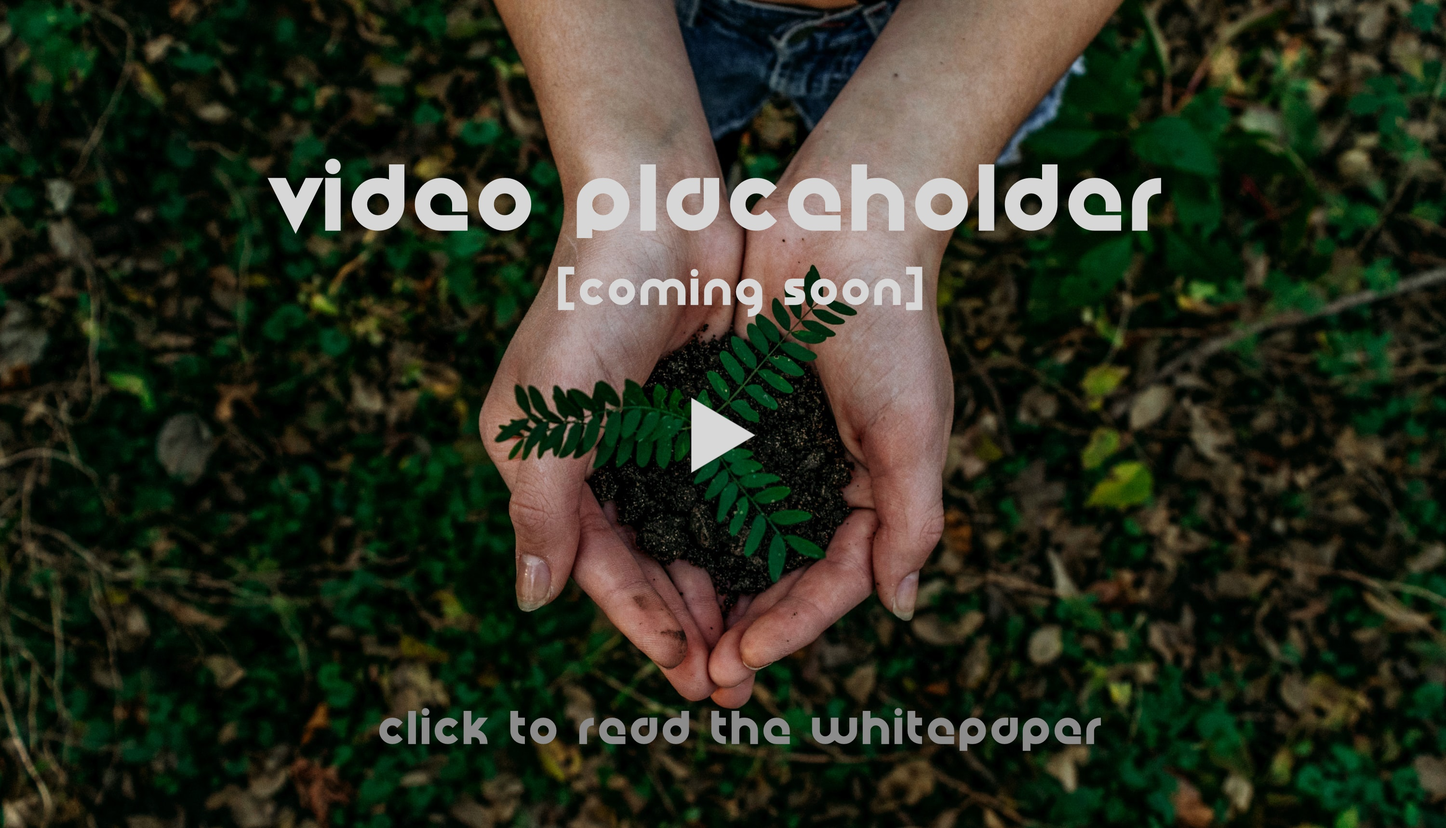
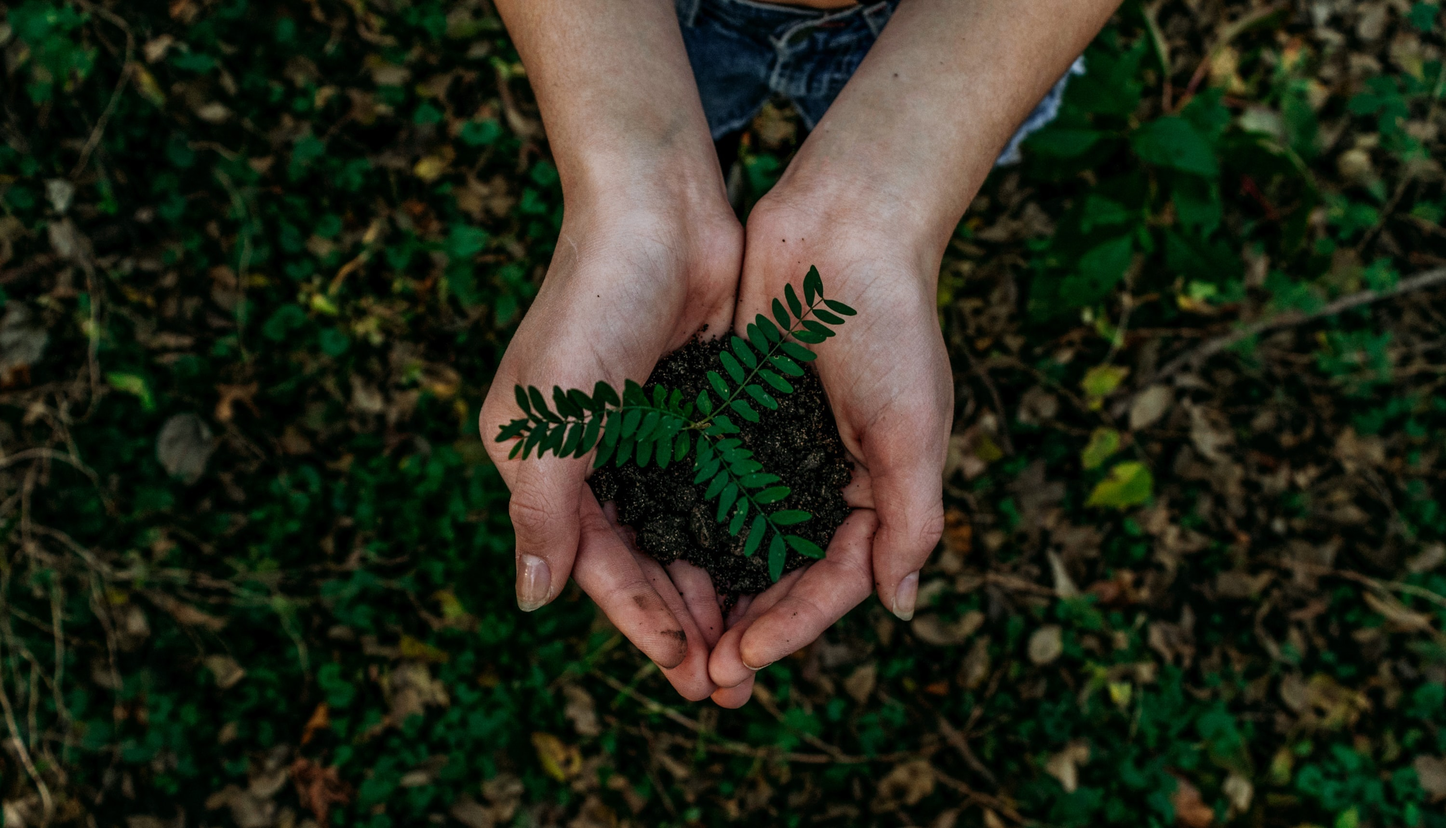
Updated Video placeholder

diff --git a/src/App.svelte b/src/App.svelte
@@ -1,7 +1,6 @@
 <script lang="ts">
   import ProcessNav from "./libs/o-views/molecules/ProcessNav.svelte";
   import Compose from "./libs/o-views/atoms/Compose.svelte";
-  import Mobile from "./libs/o-views/templates/Mobile.svelte";
 
   import ComposeApp from "./libs/o-views/atoms/ComposeApp.svelte";
   import Router, { pop, location, push } from "svelte-spa-router";
@@ -16,40 +15,19 @@
   import Modal from "./libs/o-views/molecules/Modal.svelte";
   import type { OmoEvent } from "./libs/o-events/omoEvent";
   import { RunProcess } from "./libs/o-events/runProcess";
-  import Announcement from "./libs/o-views/molecules/Announcement.svelte";
   import ProcessContainer from "./libs/o-views/molecules/ProcessContainer.svelte";
   import { Cancel } from "./libs/o-processes/events/cancel";
   import { Process } from "./libs/o-processes/interfaces/process";
-  import { ShowNotification } from "./libs/o-events/showNotification";
   import { getEnvironment } from "./libs/o-os/o";
   import { BN } from "ethereumjs-util";
-  import {
-    initializeApp,
-    InitializeAppContext,
-  } from "./dapps/safe/processes/initializeApp/initializeApp";
+  import { initializeApp } from "./dapps/safe/processes/initializeApp/initializeApp";
   import { GotProfile } from "./dapps/omosapien/events/gotProfile";
   import { createOmoSapien } from "./dapps/omosapien/processes/createOmoSapien/createOmoSapien";
-  import { ProcessArtifact } from "./libs/o-processes/interfaces/processArtifact";
 
   let actions = [];
 
-  let notifications = [
-    {
-      data: {
-        type: "Attention!",
-        text:
-          "Early alpha testing, data losses can occur, use at own risk! For feedback join our",
-        button: "Chat",
-      },
-      action: {
-        link: "https://discord.gg/Rbhy4j9",
-      },
-    },
-  ];
-
   let isOpen = false;
   let showActionBar = false;
-  let askForCancel = false;
 
   let runningProcess: Process = window.o.stateMachines.current();
 
@@ -70,10 +48,6 @@
         (<RunProcess>event).contextModifier
       );
       isOpen = true;
-    }
-    if (event.type == "shell.showNotification") {
-      //notifications.push((<ShowNotification>event).mapping);
-      //notifications = notifications;
     }
   });
 
@@ -183,13 +157,6 @@
 <ComposeApp tw="font-primary bg-light-100">
   <Compose tw="mx-auto bg-light-100 w-full">
     <Compose columns="1fr" rows="1fr auto" tw="w-full">
-      <!-- <Compose tw="md:my-1">
-        <Mobile>
-          {#each notifications as notification}
-            <Announcement mapping={notification} />
-          {/each}
-        </Mobile>
-      </Compose> -->
       <Compose rows="1fr" columns="1fr">
         <Router
           {routes}

diff --git a/src/dapps/website/views/molecules/Hero.svelte b/src/dapps/website/views/molecules/Hero.svelte
@@ -4,19 +4,23 @@
 </script>
 
 <div
-  class="items-center justify-center w-full py-20 overflow-x-hidden lg:py-40 xl:pt-40 xl:pb-64">
+  class="items-center justify-center w-full py-20 overflow-x-hidden bg-white lg:py-40 xl:pt-40 xl:pb-64">
   <div
     class="container flex flex-col items-center justify-between h-full max-w-6xl px-8 mx-auto -mt-32 lg:flex-row lg:px-0">
     <div
       class="z-30 flex flex-col items-center w-full max-w-xl pt-40 text-center lg:items-start lg:w-1/2 lg:pt-16 xl:pt-24 lg:text-left">
       <h1
-        class="relative text-4xl font-black tracking-wide uppercase font-title text-secondary sm:text-5xl lg:text-6xl xl:mb-4">
-        Own your money own your life!
+        class="relative text-2xl font-black tracking-wide uppercase font-title text-secondary sm:text-3xl lg:text-4xl xl:mb-4">
+        <span class="text-4xl sm:text-5xl lg:text-6xl">Own your money</span>
+        <br />
+        <span class="text-3xl sm:text-4xl lg:text-5xl">grow your passion</span><br />
+        <span class="text-3xl sm:text-4xl lg:text-5xl">Sustain your earth!</span>
       </h1>
       <p
         class="pr-0 mb-20 text-base text-light-500 sm:text-lg xl:text-xl lg:pr-20 ">
         Grow now your own personal money tightly interconnected to your time
-        alive.
+        alive and sustain your planet with a passionate economy and a fair money
+        design.
       </p>
       <!-- <div
         on:click={() => push('#/omoli/dapps')}

diff --git a/src/dapps/website/views/molecules/Video.svelte b/src/dapps/website/views/molecules/Video.svelte
@@ -1,5 +1,28 @@
-<div class="flex items-center justify-center w-full">
-  <a href="#/visionpaper" class="w-full">
-    <img src="./images/video.jpg" class="w-full" alt="video placeholder" />
-  </a>
-</div>
+<script lang="ts">
+  import Icon from "fa-svelte";
+  import { faPlay } from "@fortawesome/free-solid-svg-icons";
+</script>
+
+<section
+  class="flex flex-col items-center justify-center w-full h-full font-sans text-center bg-cover"
+  style="background:url(./images/video.jpg) no-repeat
+  center;">
+  <div
+    class="flex flex-col items-center justify-center w-full h-full text-center bg-blue-900 bg-cover opacity-50">
+    <div
+      class="flex items-center justify-center w-24 h-24 mb-8 bg-white rounded-full text-primary hover:bg-gray-200">
+      <Icon icon={faPlay} class="text-xl" />
+    </div>
+    <label
+      for=""
+      class="text-xs font-hairline text-white uppercase tracking-extrawide">
+      Watch Video
+    </label>
+    <h3
+      class="m-4 mx-auto text-4xl font-black leading-normal text-white uppercase md:m8 md:text-6xl font-title">
+      Ready to lead humanity
+      <br />into a new age of abundance?<br />
+      <span class="text-2xl">(video coming soon)</span>
+    </h3>
+  </div>
+</section>

diff --git a/src/dapps/website/views/molecules/Pricing.svelte b/src/dapps/website/views/molecules/Pricing.svelte
@@ -6,11 +6,11 @@
     <div class="flex flex-col items-center w-full px-5 pb-24 mx-auto ">
       <h2
         class="my-5 text-base font-bold tracking-wide uppercase text-tertiary">
-        Pricing
+        Fair Use pricing
       </h2>
       <h3
         class="max-w-4xl px-5 mt-2 text-3xl font-black leading-loose tracking-wide text-center uppercase font-title text-primary sm:mt-0 sm:px-0 md:text-5xl">
-        <div>Fair Prices <br />for everyone</div>
+        <div>You grow your economy<br />we build the tools for you</div>
       </h3>
     </div>
 
@@ -121,7 +121,7 @@
           class="relative z-10 w-full max-w-md my-8 bg-white rounded-lg shadow-lg sm:w-2/3 lg:w-1/3 sm:my-5">
           <div
             class="py-4 text-sm font-semibold leading-none tracking-wide text-center text-white uppercase rounded-t bg-secondary">
-            Most Popular
+            Support Our Campaign
           </div>
           <div
             class="block max-w-sm px-8 mx-auto mt-5 text-sm text-left text-primary sm:text-md lg:px-6">

diff --git a/src/dapps/website/views/molecules/Steps.svelte b/src/dapps/website/views/molecules/Steps.svelte
@@ -17,7 +17,7 @@
     <h3
       class="max-w-4xl px-5 mt-2 text-3xl font-black leading-loose tracking-wider text-center uppercase font-title text-primary sm:mt-0 sm:px-0 md:text-5xl">
       <div>Designed to empower</div>
-      <div class="mt-3">your abundance</div>
+      <div class="mt-3">your life</div>
     </h3>
     <div
       class="flex flex-col w-full mt-0 lg:flex-row sm:mt-10 lg:mt-20 text-primary">

diff --git a/src/dapps/website/views/pages/Website.svelte b/src/dapps/website/views/pages/Website.svelte
@@ -22,9 +22,8 @@
 <Compose rows="1fr" columns="1fr">
   <div class="w-full overflow-x-hidden antialiased">
     <Header />
-    <Hero />
-
     <Video />
+    <Hero />
     <Steps />
     <div class="bg-gray-50">
       <div class="flex flex-col items-center w-full px-5 py-24 mx-auto ">
